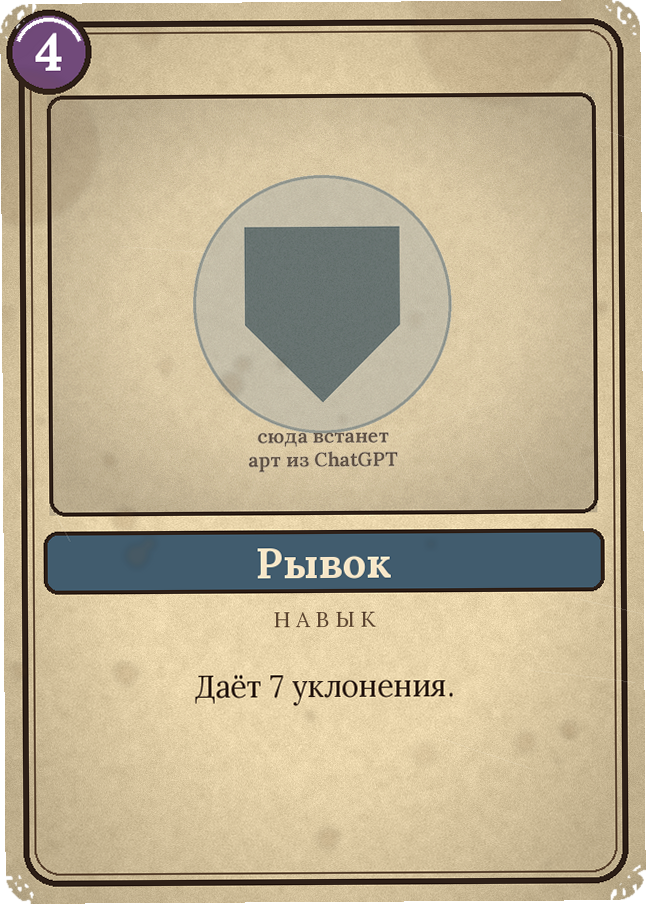
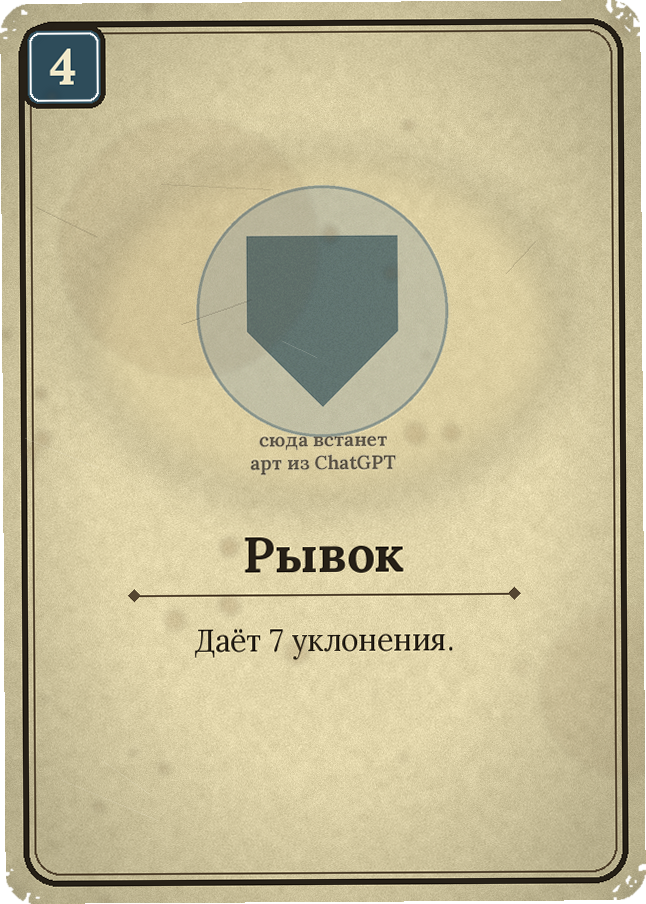
Restyle cards to match reference mockup; shop = card + price tag
- Card layout now mirrors the reference screens: square cost badge in
  the top-left corner (colored by type), plain bold title with an
  ornamental divider instead of a colored banner, and artwork that
  floats on the parchment (no framed art window). Items show no cost
  badge.
- `shop` command no longer renders a wooden-shelf scene. It now outputs
  each priced card as its own image: the ordinary card with a dark
  coin price plate attached beneath it (output/shop/<id>.png).
- Remove now-unused wood/coin helpers and shop scene config.

diff --git a/style-forge/forge.py b/style-forge/forge.py
@@ -189,39 +189,25 @@ def distress(img, cfg):
     return Image.fromarray(np.clip(arr, 0, 255).astype("uint8"), "RGBA")
 
 
-# ────────────────────────────────────────────────────────── дерево (магазин)
-
-def make_wood(w, h, cfg):
-    s = cfg["shop"]
-    top, bot = np.array(hex2rgb(s["wood_top"]), np.float32), np.array(hex2rgb(s["wood_bottom"]), np.float32)
-    yy = np.linspace(0, 1, h)[:, None, None]
-    img = np.repeat(top * (1 - yy) + bot * yy, w, axis=1)
-    img += np.random.normal(0, 6, (h, w, 1))                       # зерно
-    img += np.random.normal(0, 1, (1, w, 1)) * 5                   # вертикальные волокна
-    for py in range(70, h, 96):                                    # стыки досок
-        img[py:py + 2, :, :] *= 0.55
-    xx = np.linspace(-1, 1, w)[None, :, None]
-    yv = np.linspace(-1, 1, h)[:, None, None]
-    glow = np.clip(1 - np.sqrt(xx ** 2 + (yv + 0.5) ** 2), 0, 1)[..., None]
-    img += glow[..., 0] * np.array(hex2rgb(s["glow"]), np.float32) * 0.28
-    return Image.fromarray(np.clip(img, 0, 255).astype("uint8"), "RGB").convert("RGBA")
-
+# ────────────────────────────────────────────────────────── ценник (магазин)
 
 def draw_price_plate(base, cx, top, price, cfg):
+    """Тёмный ценник с монетой под картой — как на скрине магазина."""
     d = ImageDraw.Draw(base, "RGBA")
-    pw, ph = 152, 62
+    pw, ph = 236, 88
     x0, y0 = cx - pw // 2, top
-    d.rounded_rectangle([x0, y0, x0 + pw, y0 + ph], radius=14,
-                        fill=hex2rgb(cfg["shop"]["plate_color"]) + (240,), outline=(18, 12, 7), width=3)
+    edge = (18, 12, 7)
+    d.rounded_rectangle([x0, y0, x0 + pw, y0 + ph], radius=18,
+                        fill=hex2rgb(cfg["shop"]["plate_color"]) + (245,), outline=edge, width=4)
     cy = y0 + ph // 2
-    cr = 19
-    coin_x = x0 + 34
-    d.ellipse([coin_x - cr, cy - cr, coin_x + cr, cy + cr], fill=hex2rgb(cfg["coin_color"]), outline=(18, 12, 7), width=3)
-    d.ellipse([coin_x - cr + 6, cy - cr + 6, coin_x + cr - 6, cy + cr - 6], outline=(18, 12, 7), width=2)
-    f = font(cfg, "number", 34)
+    cr = 27
+    coin_x = x0 + 52
+    d.ellipse([coin_x - cr, cy - cr, coin_x + cr, cy + cr], fill=hex2rgb(cfg["coin_color"]), outline=edge, width=4)
+    d.ellipse([coin_x - cr + 8, cy - cr + 8, coin_x + cr - 8, cy + cr - 8], outline=edge, width=2)
+    f = font(cfg, "number", 48)
     s = str(price)
     asc, desc = f.getmetrics()
-    d.text((coin_x + cr + 12, cy - (asc + desc) / 2), s, font=f, fill=(240, 224, 190))
+    d.text((coin_x + cr + 18, cy - (asc + desc) / 2), s, font=f, fill=(240, 224, 190))
 
 
 # ────────────────────────────────────────────────────────── плейсхолдер
@@ -264,29 +250,19 @@ def placeholder_subject(card, cfg, size=760):
 
 # ────────────────────────────────────────────────────────── бэйджи
 
-def draw_gem(base, x, y, r, number, color, cfg):
-    d = ImageDraw.Draw(base)
+def draw_badge(base, x, y, size, number, color, cfg):
+    """Квадратный бейдж стоимости в углу карты — как на референс-скринах."""
+    d = ImageDraw.Draw(base, "RGBA")
     ink = hex2rgb(cfg["card"]["ink"])
-    d.ellipse([x - r, y - r, x + r, y + r], fill=hex2rgb(color), outline=ink, width=6)
-    d.arc([x - r + 8, y - r + 8, x + r - 8, y + r - 8], 200, 340, fill=(255, 255, 255, 90), width=4)
-    f = font(cfg, "number", int(r * 1.25))
+    col = tuple(int(c * 0.82) for c in color)
+    d.rounded_rectangle([x, y, x + size, y + size], radius=16, fill=col, outline=ink, width=5)
+    d.rounded_rectangle([x + 7, y + 7, x + size - 7, y + size - 7], radius=10,
+                        outline=(255, 255, 255, 55), width=2)
+    f = font(cfg, "number", int(size * 0.62))
     s = str(number)
-    w = d.textlength(s, font=f)
+    tw = f.getlength(s)
     asc, desc = f.getmetrics()
-    d.text((x - w / 2, y - (asc + desc) / 2), s, font=f, fill=(255, 255, 255))
-
-
-def draw_coin(base, x, y, r, number, cfg):
-    d = ImageDraw.Draw(base)
-    ink = hex2rgb(cfg["card"]["ink"])
-    col = hex2rgb(cfg["coin_color"])
-    d.ellipse([x - r, y - r, x + r, y + r], fill=col, outline=ink, width=5)
-    d.ellipse([x - r + 7, y - r + 7, x + r - 7, y + r - 7], outline=ink, width=2)
-    f = font(cfg, "number", int(r * 1.05))
-    s = str(number)
-    w = d.textlength(s, font=f)
-    asc, desc = f.getmetrics()
-    d.text((x - w / 2, y - (asc + desc) / 2), s, font=f, fill=hex2rgb(cfg["card"]["ink"]))
+    d.text((x + size / 2 - tw / 2, y + size / 2 - (asc + desc) / 2), s, font=f, fill=(244, 230, 200))
 
 
 # ────────────────────────────────────────────────────────── карта
@@ -306,46 +282,42 @@ def make_card(card, subject, cfg):
     d.rounded_rectangle([m, m, W - m, H - m], radius=34, outline=ink, width=6)
     d.rounded_rectangle([m + 11, m + 11, W - m - 11, H - m - 11], radius=26, outline=ink_soft, width=2)
 
-    # окно арта
-    ax0, ay0, ax1, ay1 = 46, 92, W - 46, 512
-    inset = make_paper(ax1 - ax0, ay1 - ay0, cfg)
-    inset = Image.eval(inset, lambda p: int(p * 0.93))  # чуть темнее
-    img.paste(inset, (ax0, ay0), inset)
+    # арт "плавает" на бумаге (без рамки-окна), с едва заметной тёплой подложкой
+    ax0, ay0, ax1, ay1 = 60, 118, W - 60, 500
+    acx, acy = (ax0 + ax1) // 2, (ay0 + ay1) // 2
+    glow = Image.new("RGBA", (W, H), (0, 0, 0, 0))
+    ImageDraw.Draw(glow).ellipse([ax0 + 20, ay0 + 30, ax1 - 20, ay1],
+                                 fill=hex2rgb(cfg["card"]["paper_dark"]) + (75,))
+    img = Image.alpha_composite(img, glow.filter(ImageFilter.GaussianBlur(20)))
 
     subj = apply_grade(subject, cfg)
-    subj = fit_contain(subj, (ax1 - ax0 - 28, ay1 - ay0 - 28))
-    img.paste(subj, (ax0 + (ax1 - ax0 - subj.width) // 2,
-                     ay0 + (ay1 - ay0 - subj.height) // 2), subj)
-    d.rounded_rectangle([ax0, ay0, ax1, ay1], radius=16, outline=ink, width=4)
+    subj = fit_contain(subj, (ax1 - ax0, ay1 - ay0))
+    img.paste(subj, (acx - subj.width // 2, acy - subj.height // 2), subj)
+    d = ImageDraw.Draw(img)
 
-    # баннер с названием
-    by0, by1 = 528, 590
-    banner = hex2rgb(tstyle["banner"])
-    d.rounded_rectangle([40, by0, W - 40, by1], radius=14, fill=banner, outline=ink, width=4)
-    tf = fit_font(cfg, "title", card["name"], W - 130, 42)
+    # название — без баннера, крупный текст + орнаментная линейка (как на скринах)
+    name_y = 552
+    tf = fit_font(cfg, "title", card["name"], W - 150, 50)
     tw = tf.getlength(card["name"])
     asc, desc = tf.getmetrics()
-    d.text(((W - tw) / 2, (by0 + by1) / 2 - (asc + desc) / 2 + 2),
-           card["name"], font=tf, fill=hex2rgb(tstyle["banner_ink"]))
-
-    # тип (мелкие капсы с разрядкой)
-    lf = font(cfg, "body", 22)
-    label = " ".join(tstyle["label"])
-    lw = lf.getlength(label)
-    d.text(((W - lw) / 2, by1 + 12), label, font=lf, fill=ink_soft)
+    d.text(((W - tw) / 2, name_y - (asc + desc) / 2), card["name"], font=tf, fill=ink)
+    ry = name_y + 40
+    d.line([130, ry, W - 130, ry], fill=ink_soft, width=2)
+    for dx in (130, W - 130):
+        d.polygon([(dx, ry - 6), (dx + 6, ry), (dx, ry + 6), (dx - 6, ry)], fill=ink_soft)
 
     # описание
     bf = font(cfg, "body", 30)
-    lines = wrap(d, card["text"], bf, W - 130)
-    ty = 664
+    lines = wrap(d, card["text"], bf, W - 140)
+    ty = ry + 26
     for line in lines:
         lw = d.textlength(line, font=bf)
         d.text(((W - lw) / 2, ty), line, font=bf, fill=ink)
         ty += 40
 
-    # энергия (самоцвет слева сверху)
-    ecol = cfg["energy_colors"].get(str(card["cost"]), cfg["energy_colors"]["default"])
-    draw_gem(img, m + 30, m + 30, 42, card["cost"], ecol, cfg)
+    # стоимость — квадратный бейдж в углу (у предметов энергии нет)
+    if card["type"] != "item":
+        draw_badge(img, m + 4, m + 4, 82, card["cost"], hex2rgb(tstyle["banner"]), cfg)
 
     # лёгкий сдвиг тона на карту — чтобы бумага не была одинаковой у всех
     jit = cfg["wear"]["tone_jitter"]
@@ -408,34 +380,23 @@ def cmd_build(cfg, cat, args):
 
 
 def cmd_shop(cfg, cat, args):
-    """Витрина магазина: карты с ценой стоят на деревянной полке с ценниками."""
-    os.makedirs(os.path.join(HERE, "output"), exist_ok=True)
+    """Магазинный вариант карты: обычная карта + ценник снизу, отдельной картинкой."""
+    outdir = os.path.join(HERE, "output", "shop")
+    os.makedirs(outdir, exist_ok=True)
     priced = [c for c in cat["cards"] if "price" in c]
     if not priced:
         print("В catalog.json нет карт с полем 'price'.")
         return
-    CW = cfg["shop"]["card_width"]
-    scale = CW / cfg["card"]["width"]
-    CH = int(cfg["card"]["height"] * scale)
-    pad = 46
-    W = pad + len(priced) * (CW + pad)
-    H = CH + 250
-    canvas = make_wood(W, H, cfg)
-    tilts = cfg["shop"]["tilts"]
-    for i, card in enumerate(priced):
-        img, _ = render_card(card, cfg)
-        img = img.resize((CW, CH), Image.LANCZOS).rotate(tilts[i % len(tilts)], expand=True, resample=Image.BICUBIC)
-        cx = pad + i * (CW + pad) + CW // 2
-        x, y = cx - img.width // 2, 40
-        # мягкая тень под картой
-        shadow = Image.new("RGBA", canvas.size, (0, 0, 0, 0))
-        ImageDraw.Draw(shadow).ellipse([cx - CW // 2, y + CH - 30, cx + CW // 2, y + CH + 40], fill=(0, 0, 0, 90))
-        canvas = Image.alpha_composite(canvas, shadow.filter(ImageFilter.GaussianBlur(12)))
-        canvas.paste(img, (x, y), img)
-        draw_price_plate(canvas, cx, y + img.height - 6, card["price"], cfg)
-        print(f"  ✓ {card['name']:<14} — {card['price']}◎")
-    canvas.convert("RGB").save(os.path.join(HERE, "output", "shop.png"))
-    print("Витрина → output/shop.png")
+    gap, plate_h = 20, 88
+    for card in priced:
+        card_img, tag = render_card(card, cfg)
+        W, H = card_img.size
+        canvas = Image.new("RGBA", (W, H + gap + plate_h + 6), (0, 0, 0, 0))
+        canvas.paste(card_img, (0, 0), card_img)
+        draw_price_plate(canvas, W // 2, H + gap, card["price"], cfg)
+        canvas.save(os.path.join(outdir, f"{card['id']}.png"))
+        print(f"  ✓ {card['name']:<14} [{tag}] + ценник {card['price']}◎ → output/shop/{card['id']}.png")
+    print("Готово.")
 
 
 def main():
